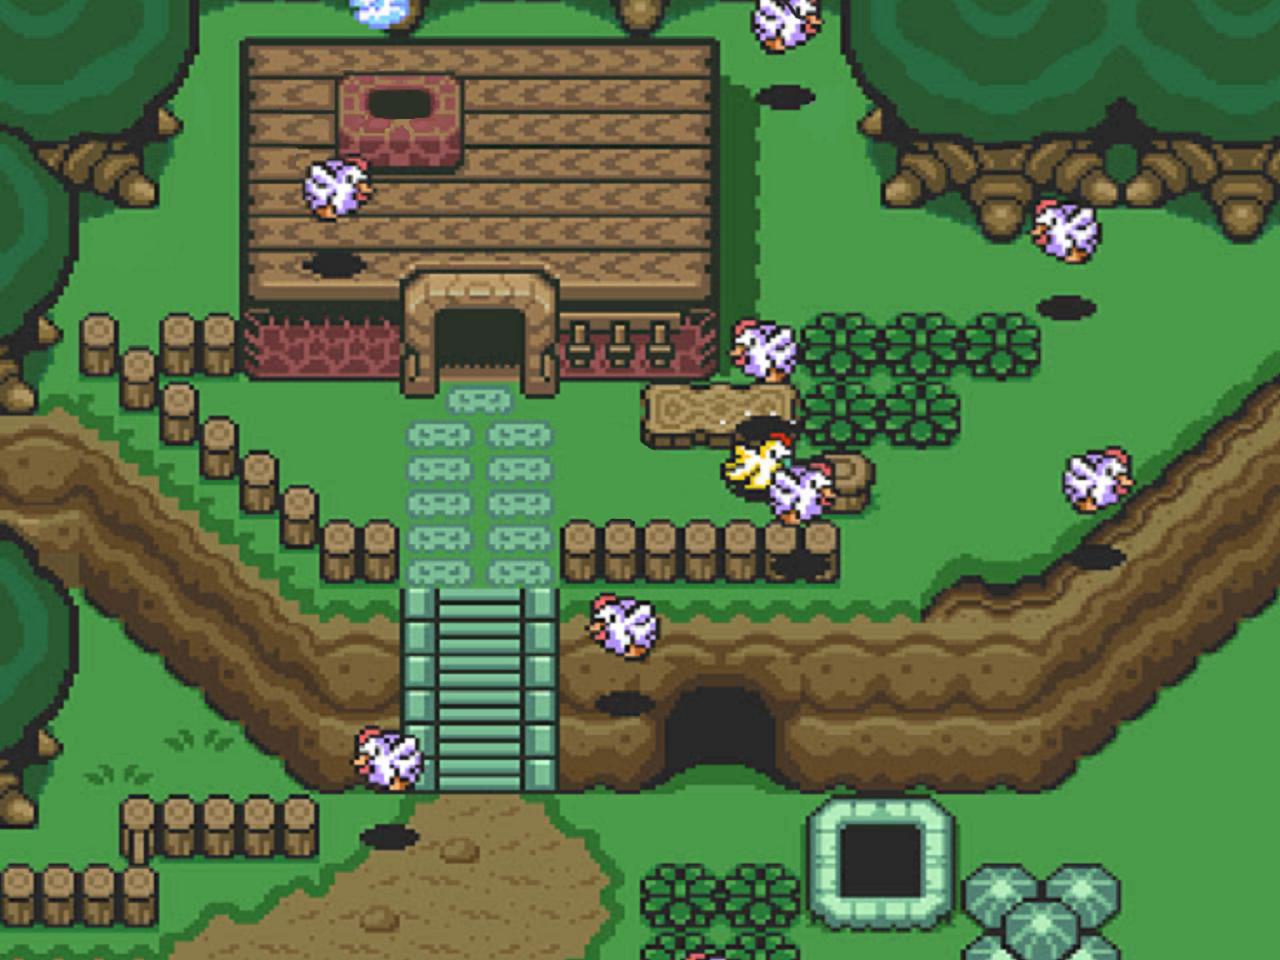
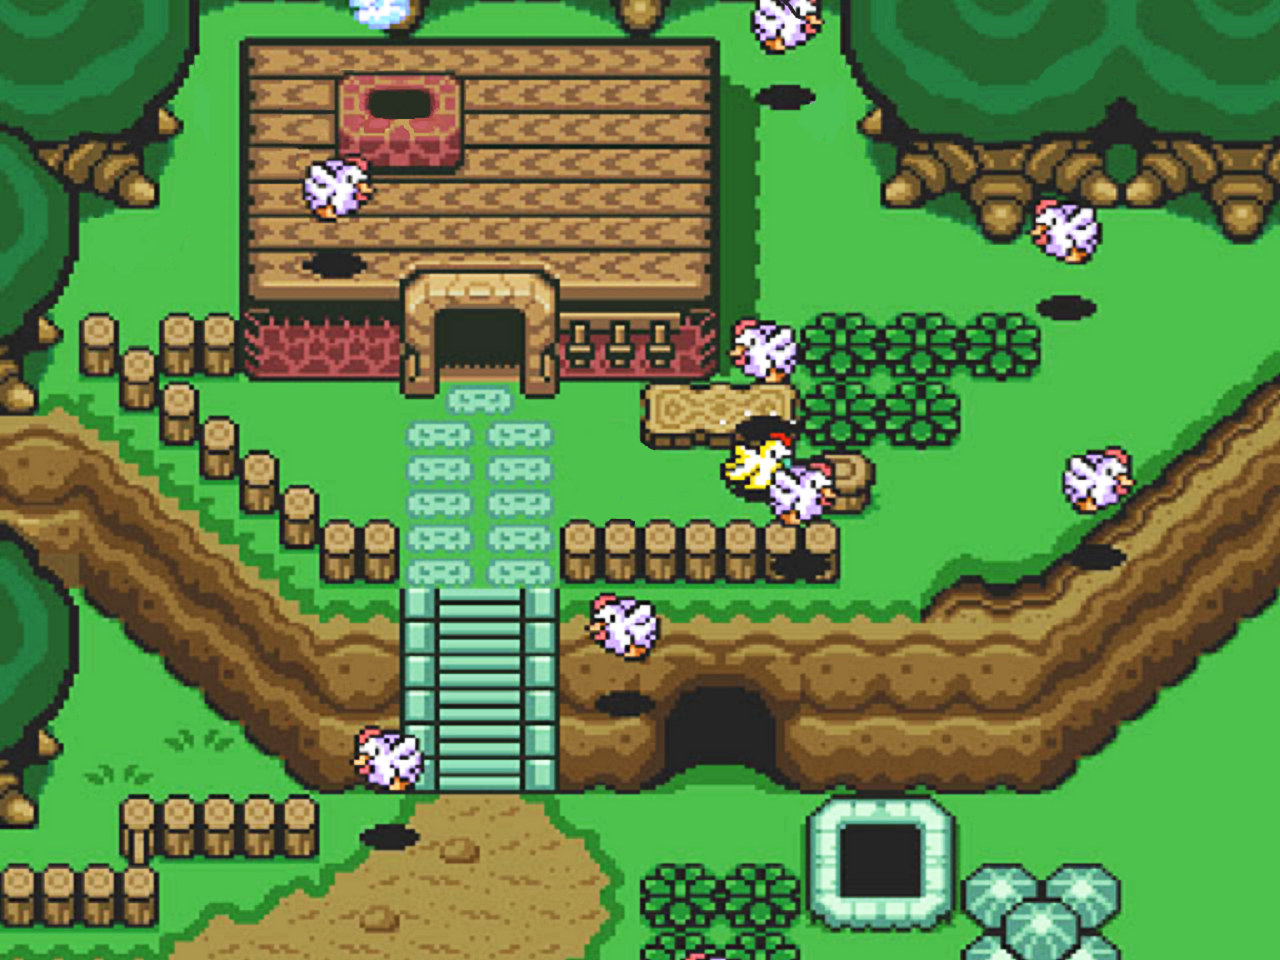
Added index content
* using Carousel template from Bootstrap
* fix to cucco's transparency

diff --git a/index.html b/index.html
@@ -1,21 +1,198 @@
 <!DOCTYPE html>
 <html>
 <head>
+	<title>Deku's journal</title>
+	<meta charset="utf-8">
+    <meta http-equiv="X-UA-Compatible" content="IE=edge">
+    <meta name="viewport" content="width=device-width, initial-scale=1">
+    <meta name="description" content="Deku's journal of current projects">
+    <meta name="author" content="Deku">
 
-	<!-- BOOTSTRAP CDN -->
 	<link rel="stylesheet" href="./css/bootstrap.min.css">
-	<script src="./js/bootstrap.min.js"></script>
+	<link rel="stylesheet" href="./css/carousel.css">
 
-	<script src="./js/custom.js"></script>
 	<script src="./js/webtoolkit.md5.js"></script>
-</head>
-<body>
 	<script>
 		if (QueryString.h == undefined || !MD5(QueryString.h) == "4cc7d72ab005b7f68f81e78ee451c51a") {
 			window.location.href = "maintenance.html";
 		}
 	</script>
-<h1>Hello World</h1>
-<p>I'm hosted with GitHub Pages.</p>
+</head>
+<body>
+
+<body>
+    <div class="navbar-wrapper">
+      <div class="container">
+
+        <div class="navbar navbar-inverse navbar-static-top" role="navigation">
+          <div class="container">
+            <div class="navbar-header">
+              <button type="button" class="navbar-toggle" data-toggle="collapse" data-target=".navbar-collapse">
+                <span class="sr-only">Toggle navigation</span>
+                <span class="icon-bar"></span>
+                <span class="icon-bar"></span>
+                <span class="icon-bar"></span>
+              </button>
+              <a class="navbar-brand" href="#"></a>
+            </div>
+            <div class="navbar-collapse collapse">
+              <ul class="nav navbar-nav">
+                <li class="active"><a href="#">Home</a></li>
+                <li><a href="#about">About</a></li>
+                <li><a href="#contact">Contact</a></li>
+                <li class="dropdown">
+                  <a href="#" class="dropdown-toggle" data-toggle="dropdown">Dropdown <b class="caret"></b></a>
+                  <ul class="dropdown-menu">
+                    <li><a href="#">Action</a></li>
+                    <li><a href="#">Another action</a></li>
+                    <li><a href="#">Something else here</a></li>
+                    <li class="divider"></li>
+                    <li class="dropdown-header">Nav header</li>
+                    <li><a href="#">Separated link</a></li>
+                    <li><a href="#">One more separated link</a></li>
+                  </ul>
+                </li>
+              </ul>
+            </div>
+          </div>
+        </div>
+
+      </div>
+    </div>
+
+
+    <!-- Carousel
+    ================================================== -->
+    <div id="myCarousel" class="carousel slide" data-ride="carousel">
+      <!-- Indicators -->
+      <ol class="carousel-indicators">
+        <li data-target="#myCarousel" data-slide-to="0" class="active"></li>
+        <li data-target="#myCarousel" data-slide-to="1"></li>
+        <li data-target="#myCarousel" data-slide-to="2"></li>
+      </ol>
+      <div class="carousel-inner">
+        <div class="item active">
+          <img data-src="holder.js/900x500/auto/#777:#7a7a7a/text:First slide" alt="First slide">
+          <div class="container">
+            <div class="carousel-caption">
+              <h1>Example headline.</h1>
+              <p>Note: If you're viewing this page via a <code>file://</code> URL, the "next" and "previous" Glyphicon buttons on the left and right might not load/display properly due to web browser security rules.</p>
+              <p><a class="btn btn-lg btn-primary" href="#" role="button">Sign up today</a></p>
+            </div>
+          </div>
+        </div>
+        <div class="item">
+          <img data-src="holder.js/900x500/auto/#666:#6a6a6a/text:Second slide" alt="Second slide">
+          <div class="container">
+            <div class="carousel-caption">
+              <h1>Another example headline.</h1>
+              <p>Cras justo odio, dapibus ac facilisis in, egestas eget quam. Donec id elit non mi porta gravida at eget metus. Nullam id dolor id nibh ultricies vehicula ut id elit.</p>
+              <p><a class="btn btn-lg btn-primary" href="#" role="button">Learn more</a></p>
+            </div>
+          </div>
+        </div>
+        <div class="item">
+          <img data-src="holder.js/900x500/auto/#555:#5a5a5a/text:Third slide" alt="Third slide">
+          <div class="container">
+            <div class="carousel-caption">
+              <h1>One more for good measure.</h1>
+              <p>Cras justo odio, dapibus ac facilisis in, egestas eget quam. Donec id elit non mi porta gravida at eget metus. Nullam id dolor id nibh ultricies vehicula ut id elit.</p>
+              <p><a class="btn btn-lg btn-primary" href="#" role="button">Browse gallery</a></p>
+            </div>
+          </div>
+        </div>
+      </div>
+      <a class="left carousel-control" href="#myCarousel" data-slide="prev"><span class="glyphicon glyphicon-chevron-left"></span></a>
+      <a class="right carousel-control" href="#myCarousel" data-slide="next"><span class="glyphicon glyphicon-chevron-right"></span></a>
+    </div><!-- /.carousel -->
+
+
+
+    <!-- Marketing messaging and featurettes
+    ================================================== -->
+    <!-- Wrap the rest of the page in another container to center all the content. -->
+
+    <div class="container marketing">
+
+      <!-- Three columns of text below the carousel -->
+      <div class="row">
+        <div class="col-lg-4">
+          <img class="img-circle" data-src="holder.js/140x140" alt="Generic placeholder image">
+          <h2>Heading</h2>
+          <p>Donec sed odio dui. Etiam porta sem malesuada magna mollis euismod. Nullam id dolor id nibh ultricies vehicula ut id elit. Morbi leo risus, porta ac consectetur ac, vestibulum at eros. Praesent commodo cursus magna.</p>
+          <p><a class="btn btn-default" href="#" role="button">View details &raquo;</a></p>
+        </div><!-- /.col-lg-4 -->
+        <div class="col-lg-4">
+          <img class="img-circle" data-src="holder.js/140x140" alt="Generic placeholder image">
+          <h2>Heading</h2>
+          <p>Duis mollis, est non commodo luctus, nisi erat porttitor ligula, eget lacinia odio sem nec elit. Cras mattis consectetur purus sit amet fermentum. Fusce dapibus, tellus ac cursus commodo, tortor mauris condimentum nibh.</p>
+          <p><a class="btn btn-default" href="#" role="button">View details &raquo;</a></p>
+        </div><!-- /.col-lg-4 -->
+        <div class="col-lg-4">
+          <img class="img-circle" data-src="holder.js/140x140" alt="Generic placeholder image">
+          <h2>Heading</h2>
+          <p>Donec sed odio dui. Cras justo odio, dapibus ac facilisis in, egestas eget quam. Vestibulum id ligula porta felis euismod semper. Fusce dapibus, tellus ac cursus commodo, tortor mauris condimentum nibh, ut fermentum massa justo sit amet risus.</p>
+          <p><a class="btn btn-default" href="#" role="button">View details &raquo;</a></p>
+        </div><!-- /.col-lg-4 -->
+      </div><!-- /.row -->
+
+
+      <!-- START THE FEATURETTES -->
+
+      <hr class="featurette-divider">
+
+      <div class="row featurette">
+        <div class="col-md-7">
+          <h2 class="featurette-heading">First featurette heading. <span class="text-muted">It'll blow your mind.</span></h2>
+          <p class="lead">Donec ullamcorper nulla non metus auctor fringilla. Vestibulum id ligula porta felis euismod semper. Praesent commodo cursus magna, vel scelerisque nisl consectetur. Fusce dapibus, tellus ac cursus commodo.</p>
+        </div>
+        <div class="col-md-5">
+          <img class="featurette-image img-responsive" data-src="holder.js/500x500/auto" alt="Generic placeholder image">
+        </div>
+      </div>
+
+      <hr class="featurette-divider">
+
+      <div class="row featurette">
+        <div class="col-md-5">
+          <img class="featurette-image img-responsive" data-src="holder.js/500x500/auto" alt="Generic placeholder image">
+        </div>
+        <div class="col-md-7">
+          <h2 class="featurette-heading">Oh yeah, it's that good. <span class="text-muted">See for yourself.</span></h2>
+          <p class="lead">Donec ullamcorper nulla non metus auctor fringilla. Vestibulum id ligula porta felis euismod semper. Praesent commodo cursus magna, vel scelerisque nisl consectetur. Fusce dapibus, tellus ac cursus commodo.</p>
+        </div>
+      </div>
+
+      <hr class="featurette-divider">
+
+      <div class="row featurette">
+        <div class="col-md-7">
+          <h2 class="featurette-heading">And lastly, this one. <span class="text-muted">Checkmate.</span></h2>
+          <p class="lead">Donec ullamcorper nulla non metus auctor fringilla. Vestibulum id ligula porta felis euismod semper. Praesent commodo cursus magna, vel scelerisque nisl consectetur. Fusce dapibus, tellus ac cursus commodo.</p>
+        </div>
+        <div class="col-md-5">
+          <img class="featurette-image img-responsive" data-src="holder.js/500x500/auto" alt="Generic placeholder image">
+        </div>
+      </div>
+
+      <hr class="featurette-divider">
+
+      <!-- /END THE FEATURETTES -->
+
+
+      <!-- FOOTER -->
+      <footer>
+        <p class="pull-right"><a href="#">Back to top</a></p>
+        <p>&copy; 2014 Deku &middot; <a href="#">Privacy</a> &middot; <a href="#">Terms</a></p>
+      </footer>
+
+    </div><!-- /.container -->
+
+
+    <!-- Placed at the end of the document so the pages load faster -->
+    <script src="./js/jquery-1.11.0.min.js"></script>
+	<script src="./js/bootstrap.min.js"></script>
+	<script src="./js/custom.js"></script>
+
 </body>
 </html>

diff --git a/css/carousel.css b/css/carousel.css
@@ -1,0 +1,147 @@
+/* GLOBAL STYLES
+-------------------------------------------------- */
+/* Padding below the footer and lighter body text */
+
+body {
+  padding-bottom: 40px;
+  color: #5a5a5a;
+}
+
+
+
+/* CUSTOMIZE THE NAVBAR
+-------------------------------------------------- */
+
+/* Special class on .container surrounding .navbar, used for positioning it into place. */
+.navbar-wrapper {
+  position: absolute;
+  top: 0;
+  right: 0;
+  left: 0;
+  z-index: 20;
+}
+
+/* Flip around the padding for proper display in narrow viewports */
+.navbar-wrapper .container {
+  padding-right: 0;
+  padding-left: 0;
+}
+.navbar-wrapper .navbar {
+  padding-right: 15px;
+  padding-left: 15px;
+}
+
+
+/* CUSTOMIZE THE CAROUSEL
+-------------------------------------------------- */
+
+/* Carousel base class */
+.carousel {
+  height: 500px;
+  margin-bottom: 60px;
+}
+/* Since positioning the image, we need to help out the caption */
+.carousel-caption {
+  z-index: 10;
+}
+
+/* Declare heights because of positioning of img element */
+.carousel .item {
+  height: 500px;
+  background-color: #777;
+}
+.carousel-inner > .item > img {
+  position: absolute;
+  top: 0;
+  left: 0;
+  min-width: 100%;
+  height: 500px;
+}
+
+
+
+/* MARKETING CONTENT
+-------------------------------------------------- */
+
+/* Pad the edges of the mobile views a bit */
+.marketing {
+  padding-right: 15px;
+  padding-left: 15px;
+}
+
+/* Center align the text within the three columns below the carousel */
+.marketing .col-lg-4 {
+  margin-bottom: 20px;
+  text-align: center;
+}
+.marketing h2 {
+  font-weight: normal;
+}
+.marketing .col-lg-4 p {
+  margin-right: 10px;
+  margin-left: 10px;
+}
+
+
+/* Featurettes
+------------------------- */
+
+.featurette-divider {
+  margin: 80px 0; /* Space out the Bootstrap <hr> more */
+}
+
+/* Thin out the marketing headings */
+.featurette-heading {
+  font-weight: 300;
+  line-height: 1;
+  letter-spacing: -1px;
+}
+
+
+
+/* RESPONSIVE CSS
+-------------------------------------------------- */
+
+@media (min-width: 768px) {
+
+  /* Remove the edge padding needed for mobile */
+  .marketing {
+    padding-right: 0;
+    padding-left: 0;
+  }
+
+  /* Navbar positioning foo */
+  .navbar-wrapper {
+    margin-top: 20px;
+  }
+  .navbar-wrapper .container {
+    padding-right: 15px;
+    padding-left:  15px;
+  }
+  .navbar-wrapper .navbar {
+    padding-right: 0;
+    padding-left:  0;
+  }
+
+  /* The navbar becomes detached from the top, so we round the corners */
+  .navbar-wrapper .navbar {
+    border-radius: 4px;
+  }
+
+  /* Bump up size of carousel content */
+  .carousel-caption p {
+    margin-bottom: 20px;
+    font-size: 21px;
+    line-height: 1.4;
+  }
+
+  .featurette-heading {
+    font-size: 50px;
+  }
+}
+
+@media (min-width: 992px) {
+  .featurette-heading {
+    margin-top: 120px;
+  }
+}

diff --git a/maintenance.html b/maintenance.html
@@ -24,7 +24,7 @@
 			<div class="jumbotron">
 				<h1 class="text-center">EN CONSTRUCCI&Oacute;N</h1>
 				<p class="text-center">
-					<img src="./img/cucco.jpg" alt="cucco"/> Los cucco han estropeado el c&oacute;digo de la p&aacute;gina. <img src="./img/cucco.jpg" alt="cucco"/>
+					<img src="./img/cucco.png" alt="cucco"/> Los cucco han estropeado el c&oacute;digo de la p&aacute;gina. <img src="./img/cucco.png" alt="cucco"/>
 					<br>
 					&iexcl;Vuelve m&aacute;s tarde!
 				</p>
